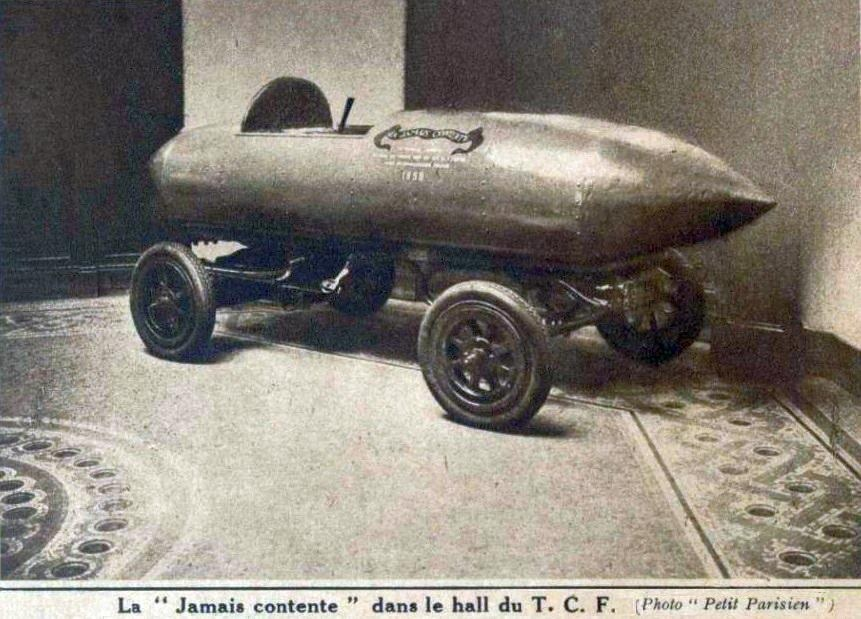
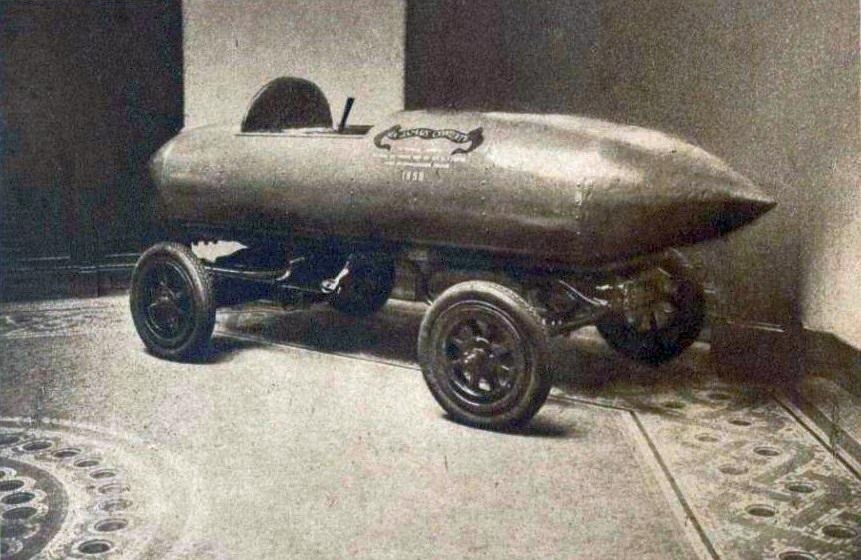
Story photos: the Jenatzy scans cropped to the car (no borders, plate lettering or printed caption); WhoCard's stamp on the card, never over the photo
The p2x round-2 story film: the glass-plate scan showed its film borders and tiny printed caption, and WhoCard's 1899
stamp sat on the other scan's printed caption, cutting its lettering in half. story-ev-is-old-1 and -2 are cropped to
the car (catalogue w/h updated, "cropped" noted); the stamp moves beside the name on the card's clean lower part.

diff --git a/src/scenes/WhoCard.tsx b/src/scenes/WhoCard.tsx
@@ -20,6 +20,8 @@ type P = {
   at?: number;
 };
 
+const STAMP_W = 230;
+
 // WhoCard (phase 2, the story kit): who this person is, as a composed card: the story's own photo in a tall window, the
 // name big, the role under it, a stamp with the year; the photo's credit on the card.
 export const WhoCard: React.FC<{p: P; ctx: SceneCtx}> = ({p, ctx}) => {
@@ -36,10 +38,12 @@ export const WhoCard: React.FC<{p: P; ctx: SceneCtx}> = ({p, ctx}) => {
       <Card x={S.left} y={S.top} w={w} h={ph + 300} r={32} style={{opacity: Math.min(1, s * 1.4), transform: `translateY(${(1 - s) * 50}px)`}}>
         <Img src={photoFile(p.src)} style={{position: 'absolute', left: 24, top: 24, width: w - 48, height: ph, objectFit: 'cover', objectPosition: `${(p.aim?.x ?? 0.5) * 100}% ${(p.aim?.y ?? 0.3) * 100}%`, borderRadius: 14, filter: 'grayscale(1) contrast(1.08)'}} />
       </Card>
-      <FitText text={p.name} x={S.left + 40} y={S.top + ph + 50} w={w - 80} size={88} min={52} maxLines={1} weight={700} at={at} />
+      <FitText text={p.name} x={S.left + 40} y={S.top + ph + 50} w={w - 80 - (p.stamp ? STAMP_W + 30 : 0)} size={88} min={52} maxLines={1} weight={700} at={at} />
       <FitText text={p.role} x={S.left + 40} y={S.top + ph + 160} w={w - 80} size={48} min={34} maxLines={1} weight={600} t="quiet" at={at + 6} />
       {p.stamp ? (
-        <div className="vn-t" style={{position: 'absolute', left: S.right - 250, top: S.top + ph - 80, width: 230, height: 110, border: '6px solid #0B0B0B', borderRadius: 12, background: '#FFFFFF', boxShadow: shadow(0.6), display: 'flex', alignItems: 'center', justifyContent: 'center', fontFamily: 'FiraGO, NotoGeo, sans-serif', fontWeight: 700, fontSize: 64, color: '#0B0B0B', transform: `rotate(-6deg) scale(${(1.3 - 0.3 * Math.min(1, st)).toFixed(3)})`, opacity: Math.min(1, st * 1.4)}}>
+        // on the card's clean lower part, beside the name, never over the photo (the p2x round-2 story film: the stamp sat
+        // on the scan's printed caption and cut its lettering in half)
+        <div className="vn-t" style={{position: 'absolute', left: S.right - 30 - STAMP_W, top: S.top + ph + 44, width: STAMP_W, height: 110, border: '6px solid #0B0B0B', borderRadius: 12, background: '#FFFFFF', boxShadow: shadow(0.6), display: 'flex', alignItems: 'center', justifyContent: 'center', fontFamily: 'FiraGO, NotoGeo, sans-serif', fontWeight: 700, fontSize: 64, color: '#0B0B0B', transform: `rotate(-6deg) scale(${(1.3 - 0.3 * Math.min(1, st)).toFixed(3)})`, opacity: Math.min(1, st * 1.4)}}>
           {p.stamp}
         </div>
       ) : null}
